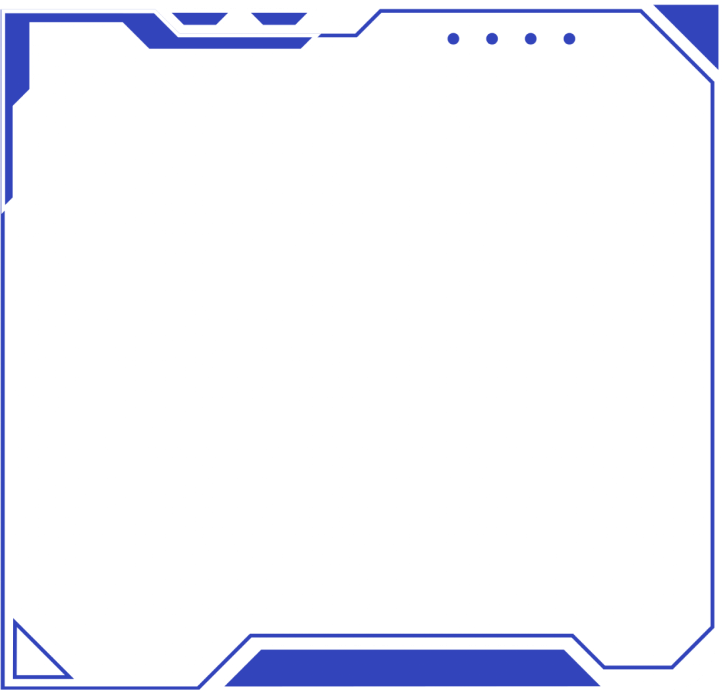
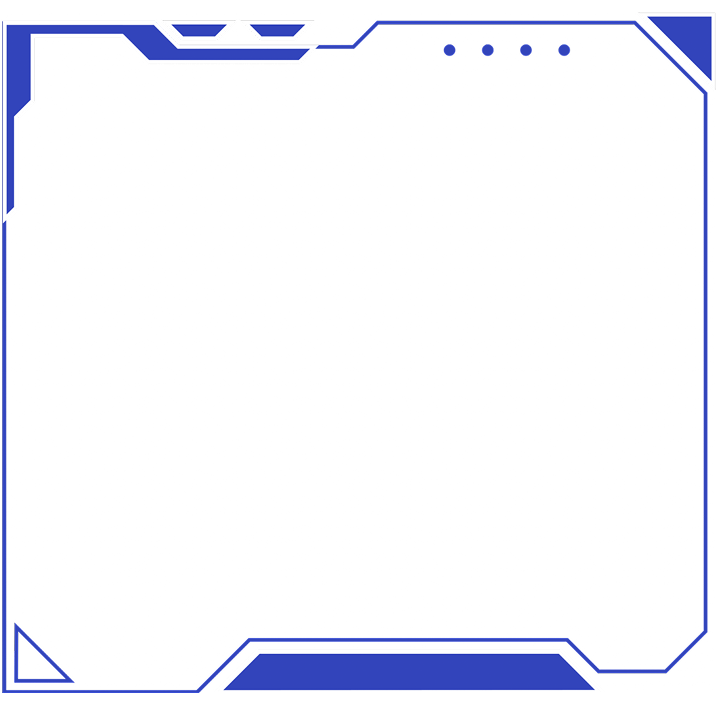
feat(leaderboard): limit rankings to 10 entries with scrolling and user highlighting

Changed region(s): [[0.0, 0.0, 1.0, 1.0]]

diff --git a/src/app/leaderboard/page.tsx b/src/app/leaderboard/page.tsx
@@ -16,12 +16,18 @@ export default async function LeaderboardPage({
 
   const supabase = await createClient()
 
+  // Get current user to highlight their rank
+  const { data: { user } } = await supabase.auth.getUser()
+  const { data: currentUserProfile } = user 
+    ? await supabase.from('profiles').select('student_id').eq('id', user.id).single()
+    : { data: null }
+
   const { data: rankings } = await supabase
     .from('profiles')
     .select('full_name, total_tokens, student_id')
     .eq('role', targetRole)
     .order('total_tokens', { ascending: false })
-    .limit(20)
+    .limit(100)
 
   const typedRankings = (rankings as unknown as Profile[]) || []
 
@@ -69,12 +75,13 @@ export default async function LeaderboardPage({
         </div>
 
         {/* Ranking List */}
-        <div className="bg-white rounded-[3rem] shadow-2xl shadow-blue-900/5 overflow-hidden border border-slate-100 min-h-[50vh]">
-          <div className="p-8">
+        <div className="bg-white rounded-[3rem] shadow-2xl shadow-blue-900/5 overflow-hidden border border-slate-100">
+          <div className="max-h-[65vh] overflow-y-auto p-4 sm:p-8">
             {typedRankings.length > 0 ? (
               <div className="space-y-4">
                 {typedRankings.map((rank, index) => {
                   const isTop3 = index < 3
+                  const isCurrentUser = currentUserProfile?.student_id === rank.student_id
                   const medals = [
                     'text-yellow-600 bg-yellow-50 border-yellow-100',
                     'text-slate-500 bg-slate-50 border-slate-100',
@@ -85,29 +92,44 @@ export default async function LeaderboardPage({
                     <div 
                       key={rank.student_id}
                       className={`flex items-center justify-between p-5 rounded-[2rem] transition-all border ${
-                        index === 0 ? 'bg-blue-50/50 border-blue-100 shadow-sm' : 'bg-white border-transparent hover:border-slate-100'
+                        isCurrentUser 
+                          ? 'bg-blue-600 text-white shadow-lg scale-[1.02] border-blue-400' 
+                          : index === 0 
+                            ? 'bg-blue-50/50 border-blue-100 shadow-sm' 
+                            : 'bg-white border-transparent hover:border-slate-100'
                       }`}
                     >
                       <div className="flex items-center gap-5">
                         <div className={`h-14 w-14 rounded-2xl border flex items-center justify-center font-black text-xl shadow-inner ${
-                          isTop3 ? medals[index] : 'text-[#64748b] bg-slate-50 border-slate-100'
+                          isCurrentUser
+                            ? 'bg-white/20 border-white/30 text-white'
+                            : isTop3 
+                              ? medals[index] 
+                              : 'text-[#64748b] bg-slate-50 border-slate-100'
                         }`}>
                           {isTop3 ? <Medal className="h-7 w-7" /> : index + 1}
                         </div>
                         <div>
-                          <p className="font-black text-[#1e293b] tracking-tight">{rank.full_name}</p>
-                          <p className="text-[10px] font-bold text-[#64748b] uppercase tracking-widest mt-0.5">ID: {rank.student_id}</p>
+                          <p className={`font-black tracking-tight ${isCurrentUser ? 'text-white' : 'text-[#1e293b]'}`}>
+                            {rank.full_name}
+                            {isCurrentUser && <span className="ml-2 text-[10px] bg-white/20 px-2 py-0.5 rounded-full">YOU</span>}
+                          </p>
+                          <p className={`text-[10px] font-bold uppercase tracking-widest mt-0.5 ${isCurrentUser ? 'text-white/70' : 'text-[#64748b]'}`}>ID: {rank.student_id}</p>
                         </div>
                       </div>
                       <div className="flex items-center gap-3 text-right">
                         <div className="flex flex-col items-end">
                            <div className="flex items-center gap-1.5">
-                              <span className={`text-2xl font-black tracking-tighter ${isTop3 ? 'text-[#2563eb]' : 'text-[#1e293b]'}`}>
+                              <span className={`text-2xl font-black tracking-tighter ${
+                                isCurrentUser ? 'text-white' : isTop3 ? 'text-[#2563eb]' : 'text-[#1e293b]'
+                              }`}>
                                 {rank.total_tokens}
                               </span>
-                              <Trophy className={`h-4 w-4 ${isTop3 ? 'text-[#2563eb]' : 'text-[#64748b]'}`} />
+                              <Trophy className={`h-4 w-4 ${
+                                isCurrentUser ? 'text-white' : isTop3 ? 'text-[#2563eb]' : 'text-[#64748b]'
+                              }`} />
                            </div>
-                           <p className="text-[10px] font-black text-[#64748b] uppercase tracking-[0.1em]">
+                           <p className={`text-[10px] font-black uppercase tracking-[0.1em] ${isCurrentUser ? 'text-white/70' : 'text-[#64748b]'}`}>
                               {isSeniorsTab ? 'Scans' : 'Tokens'}
                            </p>
                         </div>
@@ -130,4 +152,5 @@ export default async function LeaderboardPage({
     </div>
   )
 }
+
 

diff --git a/src/app/forgot-password/page.tsx b/src/app/forgot-password/page.tsx
@@ -34,7 +34,7 @@ export default async function ForgotPasswordPage({
               priority 
             />
           </div>
-          <h1 className="text-3xl font-black text-[#f7f8f8]">Reset Password</h1>
+          <h1 className="text-3xl font-black text-[#ffffff]">Reset Password</h1>
           <p className="mt-2 text-[#2563eb] font-medium text-sm">
             {success ? 'Enter the 6-digit code sent to your email' : 'Enter your Student ID to receive a reset code'}
           </p>
@@ -111,7 +111,7 @@ export default async function ForgotPasswordPage({
           </form>
         )}
 
-        <p className="mt-8 text-center text-sm text-[#64748b] font-medium px-4">
+        <p className="mt-8 text-center text-sm text-[#ffffff] font-medium px-4">
           Check your TNI student email for the {success ? '6-digit code' : 'reset code'}.
         </p>
       </div>